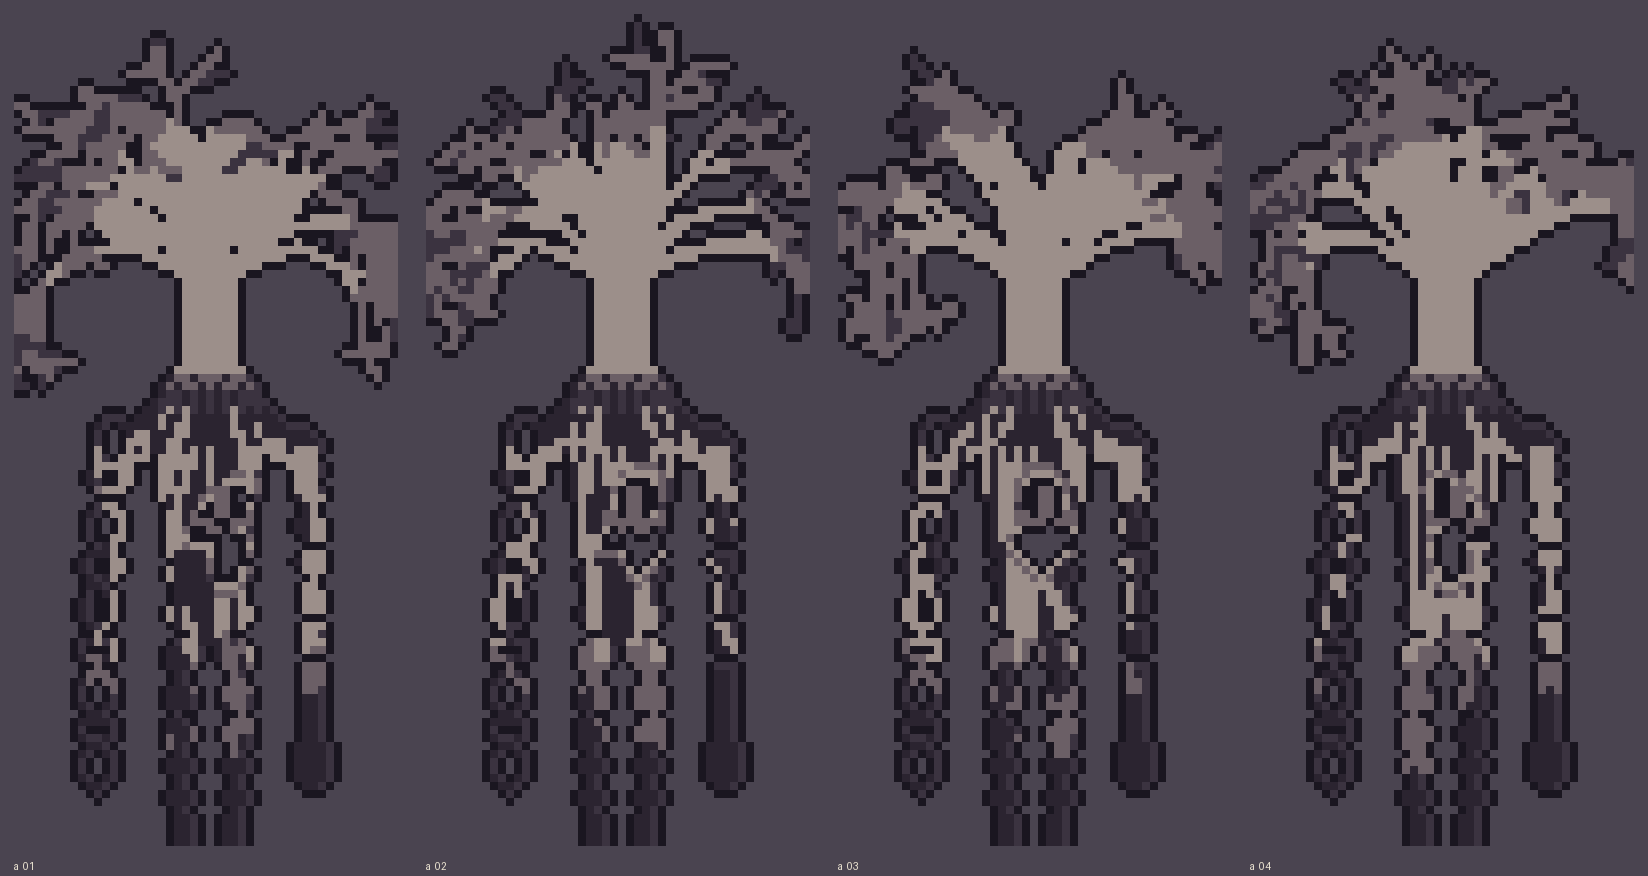
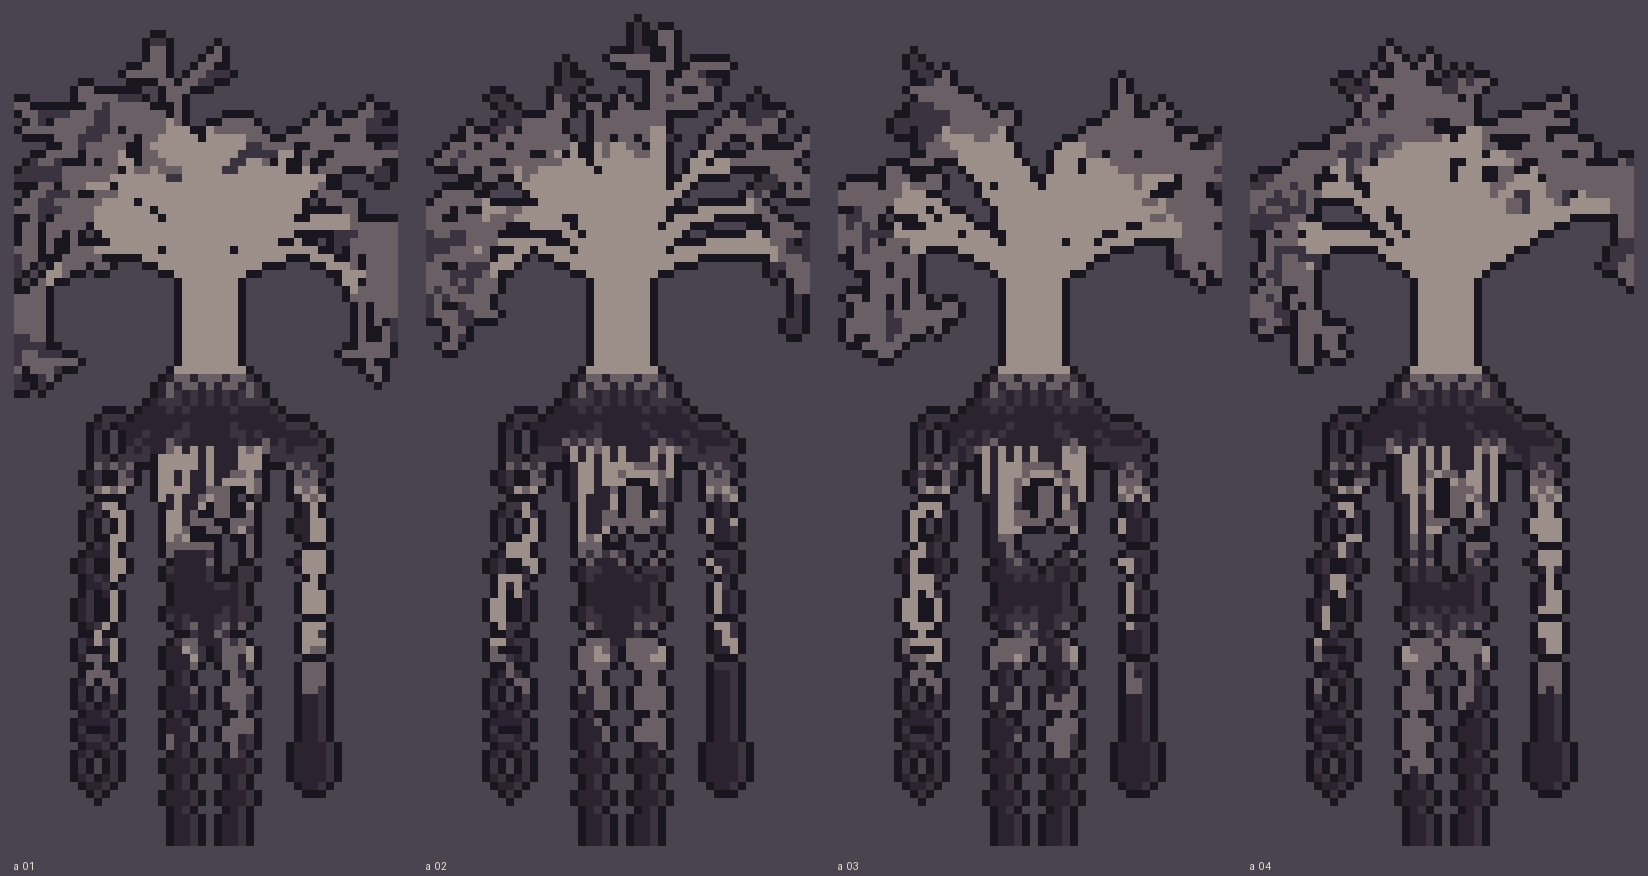
Tree head 11: black gradient at body joints (shoulder-arm, hip-leg, neck-shoulder)

diff --git a/tools/gen_t11.py b/tools/gen_t11.py
@@ -140,6 +140,19 @@ def carve_holes(c, rng, n=16):
                 u, v = (xx - x) * ct + (yy - y) * st, -(xx - x) * st + (yy - y) * ct
                 if (u / rx) ** 2 + (v / ry) ** 2 <= 1 and 0 <= yy < 104 and 0 <= xx < 48: c.g[yy][xx] = '.'
 
+def joint_fade(c):
+    # 몸 연결부위(어깨-팔, 골반-다리)의 회색을 검은색으로 서서히 어둡게 한다 (디더링으로 계단 없이)
+    for y in range(104):
+        for x in range(48):
+            ch = c.g[y][x]
+            if ch not in 'lmd': continue
+            w = 0.0
+            if (x <= 16 or x >= 32) and 50 <= y <= 64: w = max(w, 1 - (y - 50) / 14)       # 어깨에서 팔로
+            if 14 <= x <= 34 and 62 <= y <= 82: w = max(w, 1 - abs(y - 72) / 10)           # 골반에서 다리로
+            if 44 <= y <= 54 and 14 <= x <= 34: w = max(w, 1 - abs(y - 50) / 6)            # 목에서 어깨로
+            v = w + .14 * (((x + y) % 2) - .5)
+            c.g[y][x] = 's' if v > .8 else 'd' if v > .55 else 'm' if v > .3 else ch
+
 def figure(seed):
     import gen_shadow as G
     G.W, G.H = 48, 104
@@ -181,6 +194,7 @@ def figure(seed):
     for i in range(7):
         dome(c, 24 + (i - 3) * 1.2, 31, math.radians(-90 + (i - 3) * rng.uniform(21, 27)), 8, 6, rng)
     fill_eye_holes(c)
+    joint_fade(c)
     return c
 
 def main():
